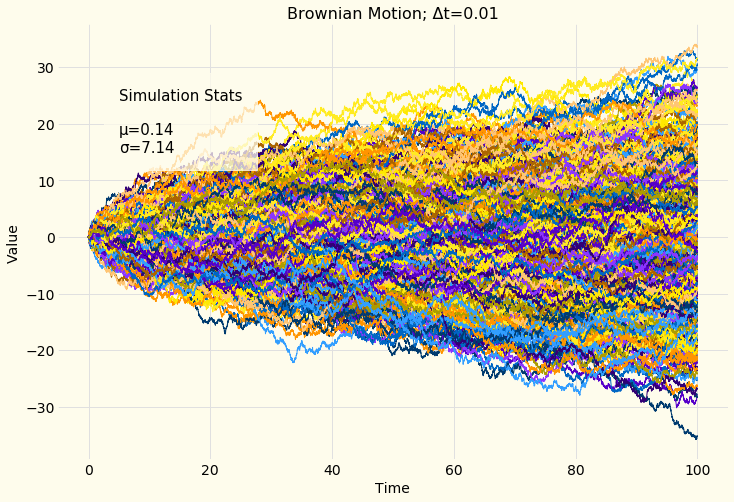
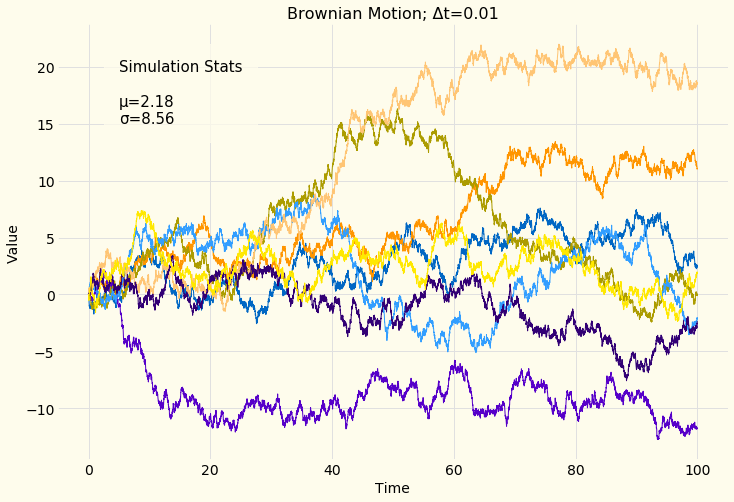
plot updates

diff --git a/hydrogen_notebooks/algorithmic_trading/random_walks.py b/hydrogen_notebooks/algorithmic_trading/random_walks.py
@@ -41,12 +41,27 @@ def multiplot(samples, time, text_pos, title, plot_name):
     axis.set_xlabel("Time")
     axis.set_ylabel("Value")
     axis.set_title(title)
-    stats=f"Simulation Stats\n\nμ={format(numpy.mean(samples), '2.2f')}\nσ={format(numpy.std(samples), '2.2f')}"
+    stats=f"Simulation Stats\n\nμ={format(numpy.mean(samples[:,-1]), '2.2f')}\nσ={format(numpy.std(samples[:,-1]), '2.2f')}"
     bbox = dict(boxstyle='square,pad=1', facecolor="#FEFCEC", edgecolor="#FEFCEC", alpha=0.75)
     axis.text(text_pos[0], text_pos[1], stats, fontsize=15, bbox=bbox)
     for i in range(nplot):
         axis.plot(time, samples[i], lw=1)
     config.save_post_asset(figure, "mean_reversion", plot_name)
+
+# %%
+
+Δt = 0.01
+npts = 10000
+nsim = 8
+
+for i in range(nsim):
+    if i == 0:
+        samples = numpy.array([brownian_motion(Δt, npts)])
+    else:
+        samples = numpy.append(samples, numpy.array([brownian_motion(Δt, npts)]), axis=0)
+time = numpy.linspace(0.0, float(npts-1)*Δt, npts)
+title = f"Brownian Motion; Δt={Δt}"
+multiplot(samples, time, [5.0, 15.0], title, "brownian_motion_1")
 
 # %%
 
@@ -61,7 +76,7 @@ for i in range(nsim):
         samples = numpy.append(samples, numpy.array([brownian_motion(Δt, npts)]), axis=0)
 time = numpy.linspace(0.0, float(npts-1)*Δt, npts)
 title = f"Brownian Motion; Δt={Δt}"
-multiplot(samples, time, [5.0, 15.0], title, "brownian_motion_1")
+multiplot(samples, time, [5.0, 25.0], title, "brownian_motion_2")
 
 # %%
 
@@ -84,6 +99,23 @@ multiplot(samples, time, [5.0, 8.0], title, "brownian_motion_with_drift_1")
 
 Δt = 0.01
 npts = 10000
+nsim = 1000
+μ = 0.1
+σ = 0.1
+
+for i in range(nsim):
+    if i == 0:
+        samples = numpy.array([brownian_motion_with_drift(μ, σ, Δt, npts)])
+    else:
+        samples = numpy.append(samples, numpy.array([brownian_motion_with_drift(μ, σ, Δt, npts)]), axis=0)
+time = numpy.linspace(0.0, float(npts-1)*Δt, npts)
+title = f"Brownian Motion with Drift; Δt={Δt}, μ={μ}, σ={σ}"
+multiplot(samples, time, [5.0, 8.0], title, "brownian_motion_with_drift_2")
+
+# %%
+
+Δt = 0.01
+npts = 10000
 nsim = 8
 μ = 0.025
 σ = 0.15
@@ -95,5 +127,24 @@ for i in range(nsim):
     else:
         samples = numpy.append(samples, numpy.array([geometric_brownian_motion(μ, σ, s0, Δt, npts)]), axis=0)
 time = numpy.linspace(0.0, float(npts-1)*Δt, npts)
-title = f"Geometric Brownian Motion; Δt={Δt}, μ={μ}, σ={σ}"
-multiplot(samples, time, [5.0, 50.0], title, "geometric_brownian_motion_1")
+title = f"Geometric Brownian Motion; Δt={Δt}, μ={μ}, σ={σ}, "+r"$S_0$" + f"={s0}"
+multiplot(samples, time, [5.0, 90.0], title, "geometric_brownian_motion_1")
+
+
+# %%
+
+Δt = 0.01
+npts = 10000
+nsim = 1000
+μ = 0.025
+σ = 0.15
+s0 = 1.0
+
+for i in range(nsim):
+    if i == 0:
+        samples = numpy.array([geometric_brownian_motion(μ, σ, s0, Δt, npts)])
+    else:
+        samples = numpy.append(samples, numpy.array([geometric_brownian_motion(μ, σ, s0, Δt, npts)]), axis=0)
+time = numpy.linspace(0.0, float(npts-1)*Δt, npts)
+title = f"Geometric Brownian Motion; Δt={Δt}, μ={μ}, σ={σ}, "+r"$S_0$" + f"={s0}"
+multiplot(samples, time, [5.0, 1000.0], title, "geometric_brownian_motion_2")
